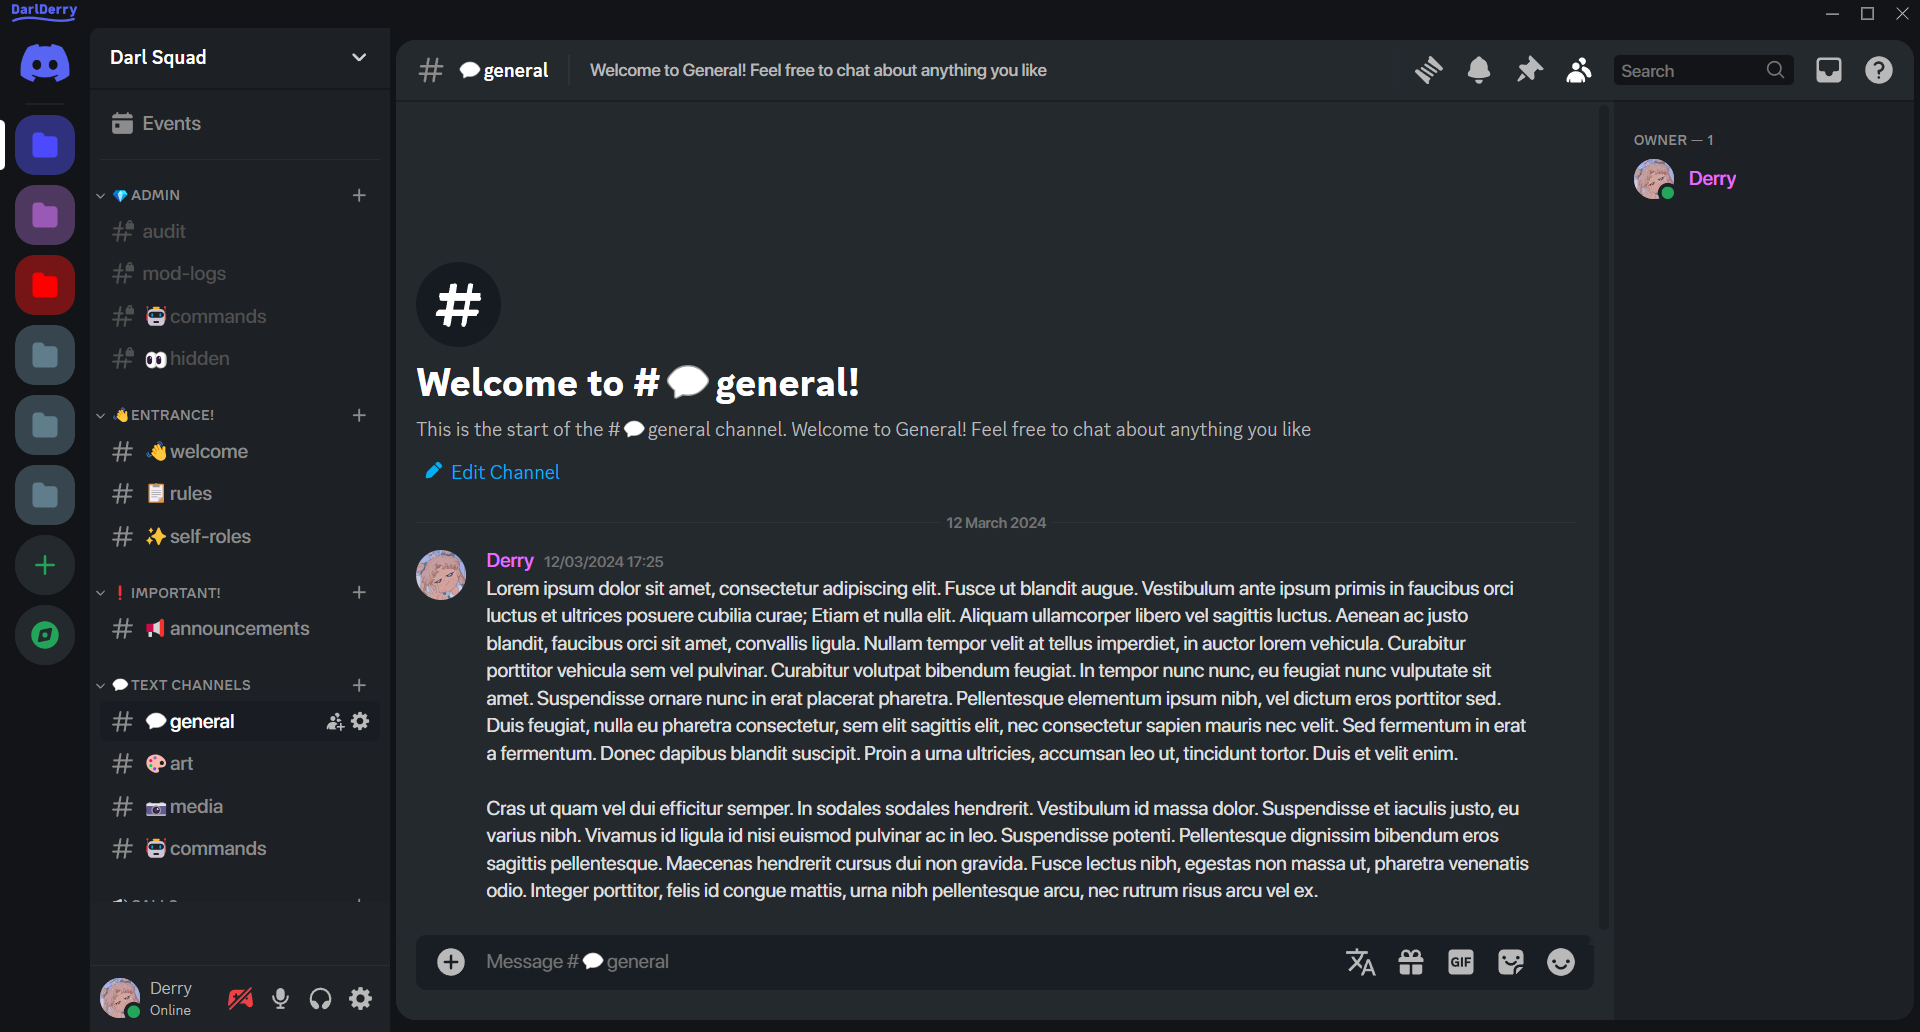
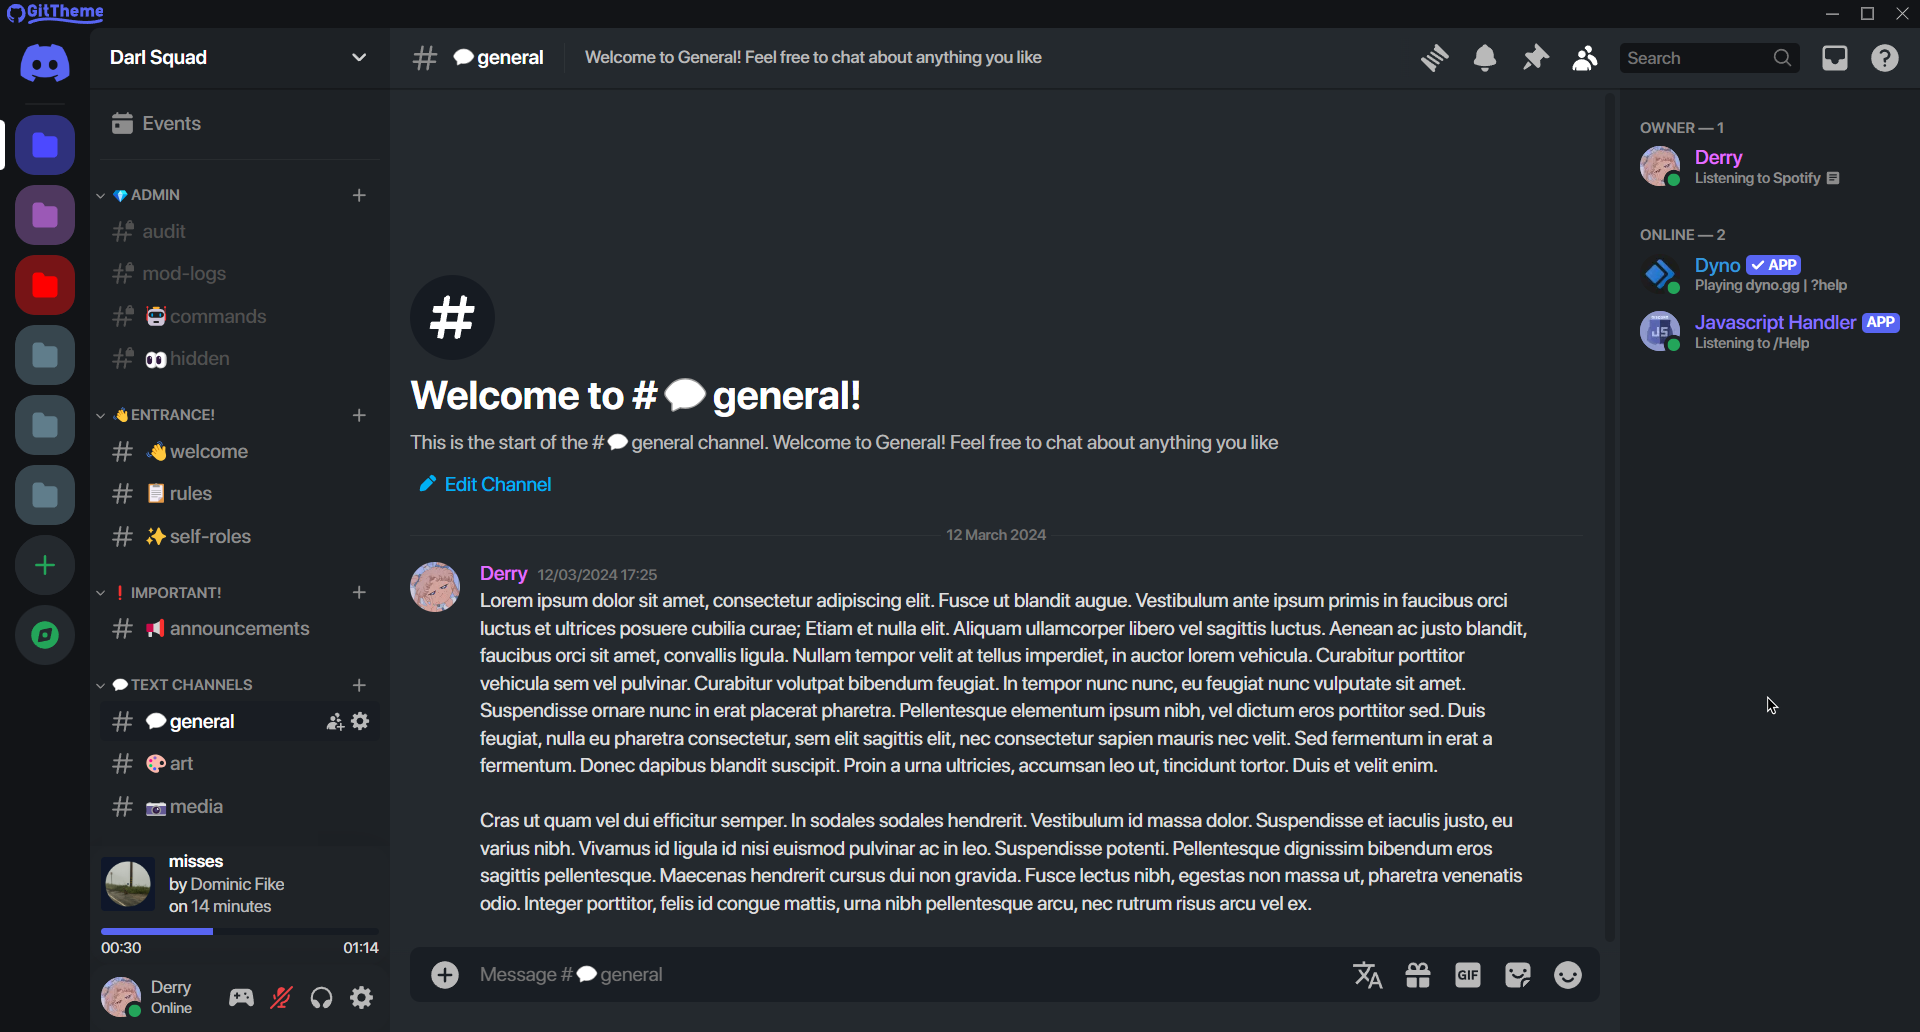
Uploaded assets
Updated preview assets to represent the current visuals.

diff --git a/GitTheme.css b/GitTheme.css
@@ -4763,3 +4763,19 @@ div[class^="typeWindows"] div[class^="wordmarkWindows"]::before {
   opacity: 1 !important;
   display: inline !important;
 }
+
+/* Glass User Container */
+section[class^="panels"] div[class^="container"] {
+  border-radius: 16px !important;
+  box-shadow: 0 4px 30px rgba(0, 0, 0, 0.1) !important;
+  border: 1px solid rgba(29, 33, 37, 0.3) !important;
+  width: 222px;
+}
+
+/* Glass Spotify Container */
+section[class^="panels"] > div[id^="vc-spotify-player"] {
+  border-radius: 16px !important;
+  box-shadow: 0 4px 30px rgba(0, 0, 0, 0.1) !important;
+  border: 1px solid rgba(29, 33, 37, 0.3) !important;
+  width: 222px;
+}
